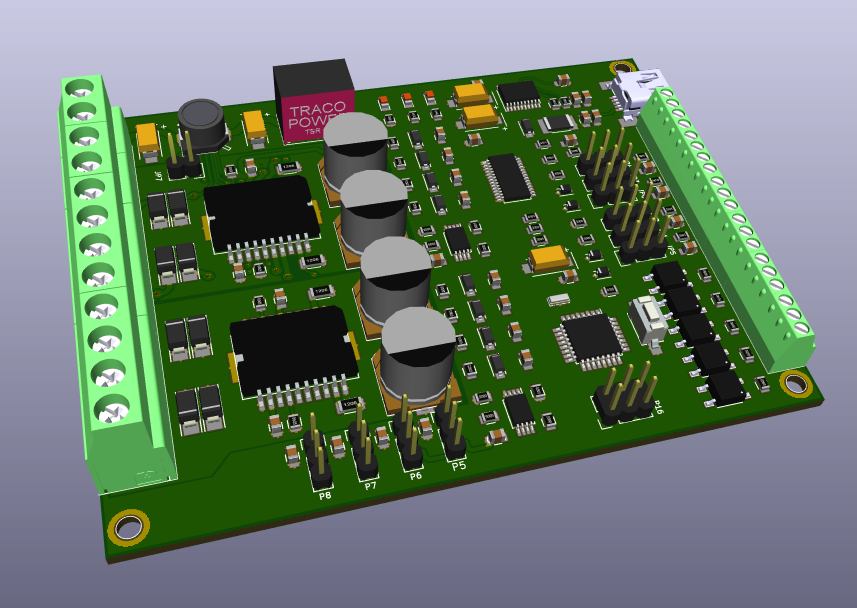
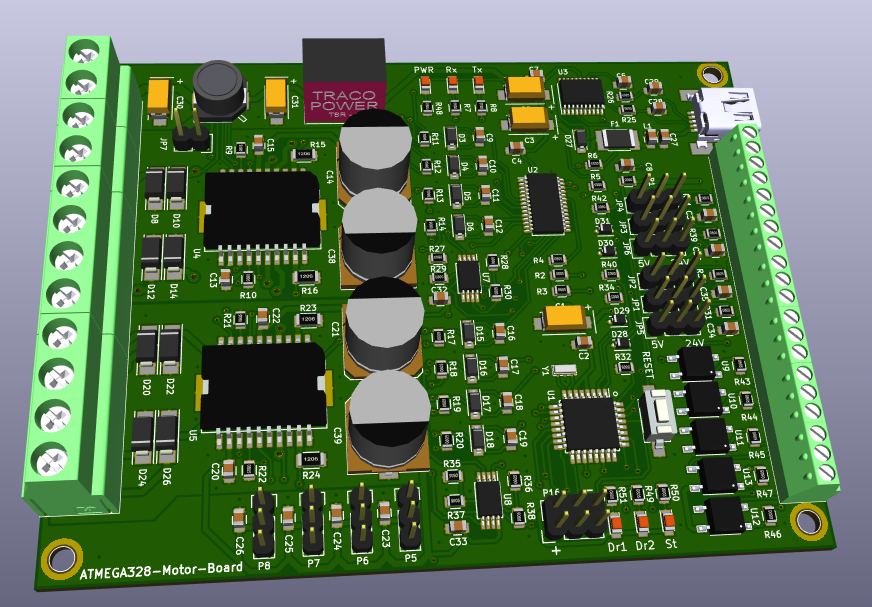
añadir imagenes de la placa

diff --git a/README.md b/README.md
@@ -1,8 +1,15 @@
 # ATMEGA328-Motor-Board
-Placa controladora para motores controlada por un microcontrolador ATMEGA328
+La placa ATMEGA328-Motor-Board es una targeta controladora para motores utilizando un microcontrolador ATMEGA328 y dos drivers para motores L298P.
+
+Permite controlar hasta 4 motores de corriente continua (max 3 Amperios), 2 motores de corriente continua (max 6 Amperios) o dos motores paso a paso.
+
+Ademas permite controlar hasta 4 servomotores de pequeño tamaño.
 
 
 ## Imagenes
 Cara superior
 ![Cara superior](/imagenes/cara_superior.png)
 
+
+Cara inferior
+![Cara inferior](/imagenes/cara_inferior.png)
